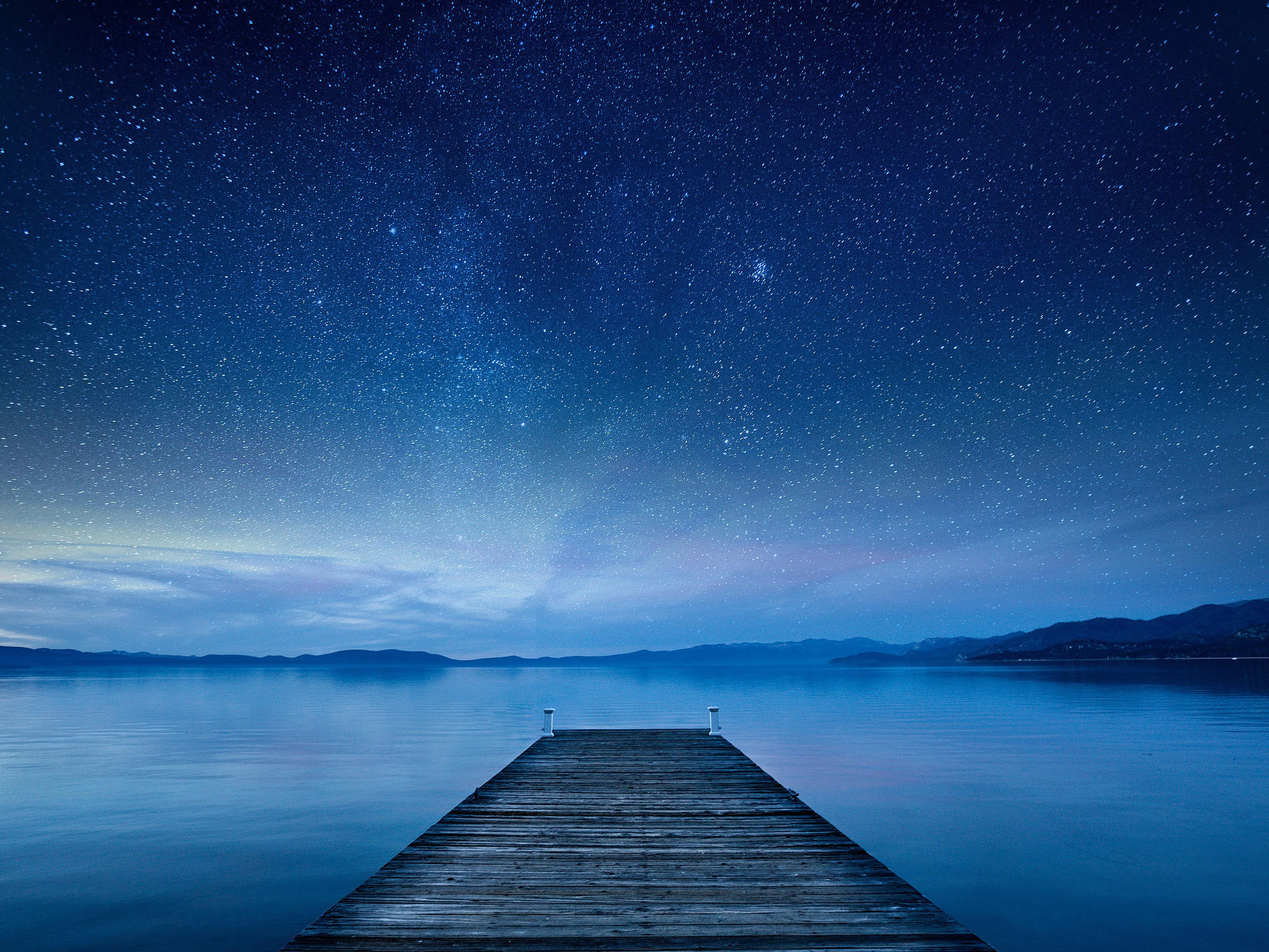
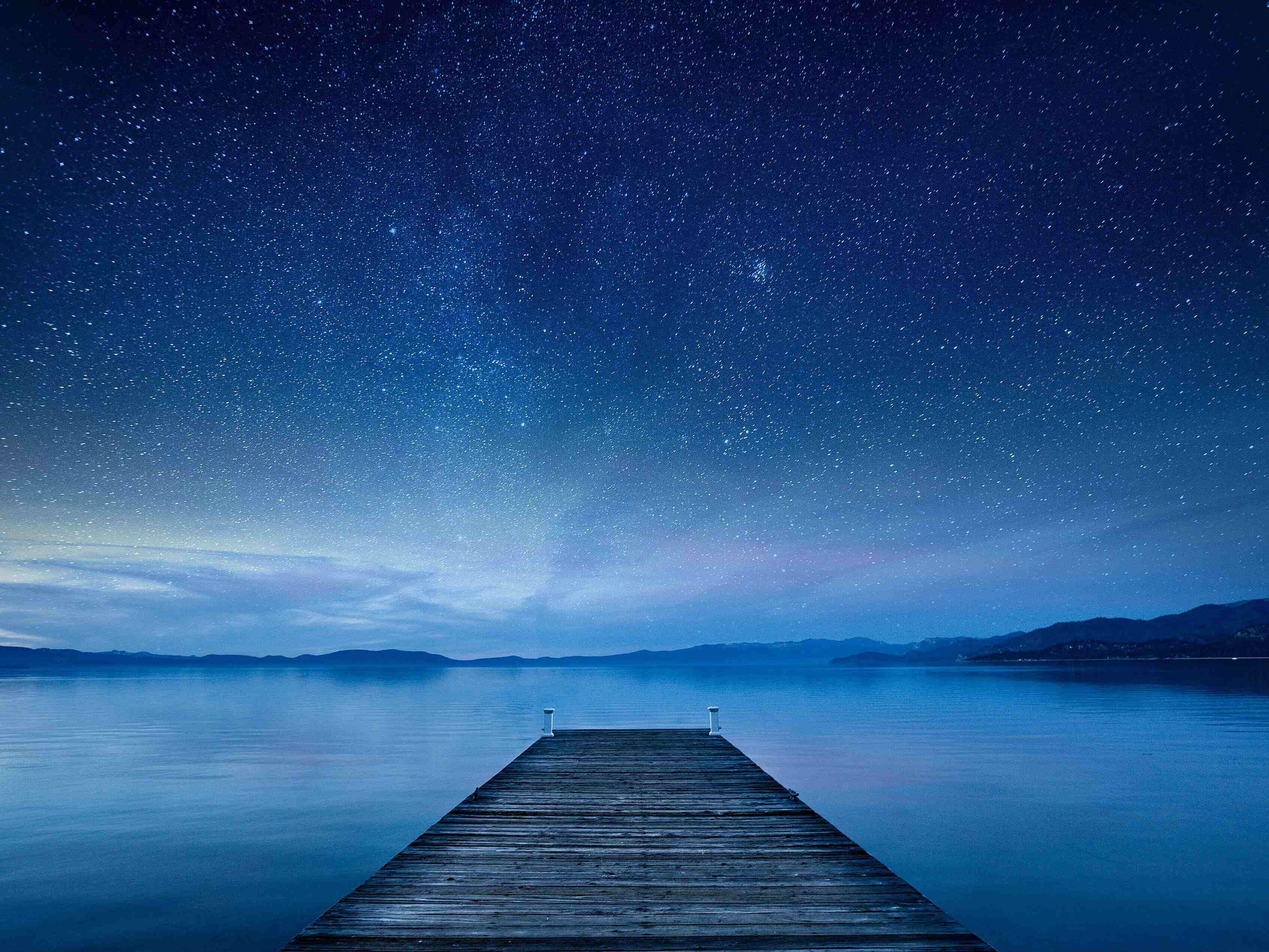
reduced sizes of imgs for faster rendering

diff --git a/src/Components/Pages/ProjectsPage.js b/src/Components/Pages/ProjectsPage.js
@@ -54,7 +54,7 @@ function ProjectsPage(props) {
                         "Implemented CRUD functionality as well as file upload and download",
                         "Developed using AWS (Amplify, Cognito, DynamoDB, S3, Cloudfront), React.js, and GraphQL"
                     ]}
-                    DemoLink="d3rprkps2q5szo.cloudfront.net"
+                    DemoLink="https://d3rprkps2q5szo.cloudfront.net/"
                     CodeLink="https://github.com/jeffersonly/Mini-Dropbox-Project"
                 />
             </div>
